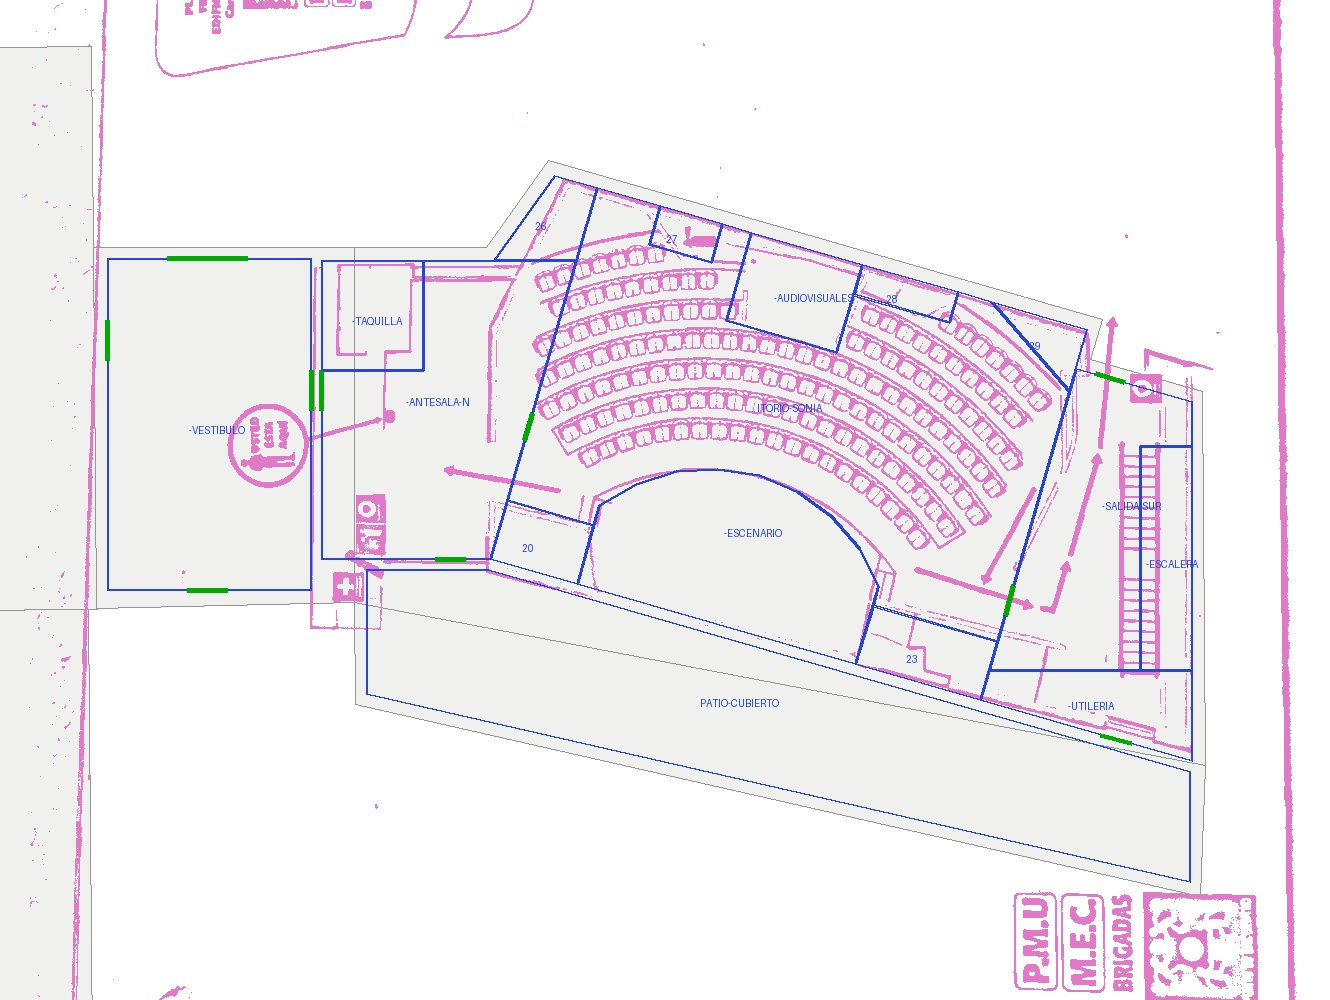
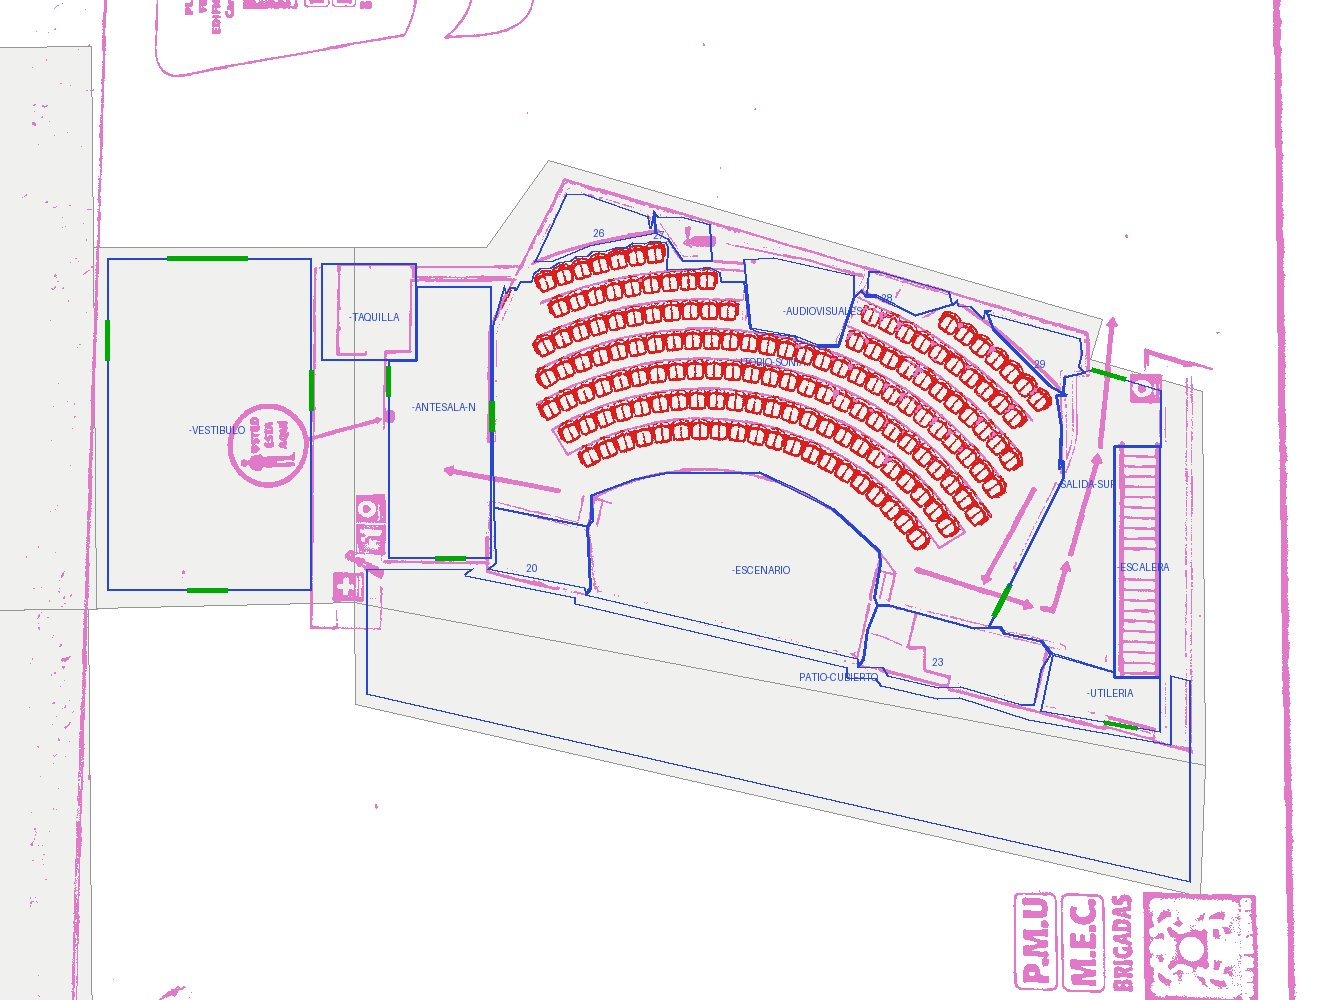
docs: update the captures and the backend state for the auditorium from its plan
Refs #218

diff --git a/docs/state/backend.md b/docs/state/backend.md
@@ -1,7 +1,7 @@
 # Backend State
 
-> Owner: Backend. As of 2026-11-05, `develop` at `6ac0ea0`. Backend | Local: EC P1's auditorium redrawn as a turned
-> block, with the floor's outline and the Carrera 9A passage (#218).
+> Owner: Backend. As of 2026-11-05, `develop` at `6ac0ea0`. Backend | Local: EC P1's auditorium redrawn from its own
+> plan's walls, with the floor's outline and the Carrera 9A passage (#218).
 
 ---
 
@@ -66,8 +66,10 @@
 
 - **EC P1's auditorium, outline and Carrera 9A exit (#218, `feature/ec-p1-turned-auditorium`):**
   - The auditorium's plan laid over the floor's fits by scale, a quarter turn and a shift (corners within 0.8%);
-    on the surveyed corners the hall is a block along the Carrera 9 Bis. `register.py` gained `"turned"` (rooms
-    drawn in a block's own frame, u along its front, v across) and `"outline"`; `ec-surveyed.json` uses both.
+    the wing is Brian's outline over that plan, laid by the survey similarity, with every seat the plan prints
+    inside the hall (`scripts/plan-tracing/wip/aud_walls.py`; a first version as a square block was refused).
+    `register.py` gained `"turned"` (a block's own frame), `"drawn"` (rooms given in floor units) and
+    `"outline"`; `ec-surveyed.json` uses `"drawn"` and `"outline"`.
   - The floor's `outline` is the surveyed parts on P1, the open patio and the passage between the tower and the
     Casa de Francisco de Paula Vélez's lot line, out to the sidewalk: no contract change was needed for the
     casa's wall. The gate onto the Carrera 9A is 2.5 m, as the survey measured it (a-10).
@@ -76,7 +78,7 @@
   - `render-map-base.py` now draws a floor's outline, corridors and doors. Review images:
     `~/Documents/KApp/mapa-pisos/ec-p1-218/` on Brian's Mac.
   - After merge: Kotlin re-runs `capture-demo-data.sh` so the demo serves the new example.
-  - Next: P2's gallery on the turned hall (#220).
+  - Next: P2's gallery over the hall as now drawn (#220).
 - **`verticalCode` (#213):** issue open, not started. Contract, service, seed data and portal, one PR each.
 - **EC P1 on the dev server, verified 2026-11-05:** the API returns exactly what V016 seeds (46 spaces, 42 drawn,
   4 corridors, same doors), and the portal draws it whole. To check the dev server through the portal or the API,
@@ -105,7 +107,7 @@
 | 0–2 | #54, #55 | Done |
 | 3 · Microsoft sign-in, refresh tokens, roles and permissions | #56 | Done and closed (#141, #142, #169, #172, #179, #148, #156) |
 | 4 · End-to-end journeys per profile | #57 | Not started |
-| 5 · EC floors faithful to reality | #58 | P1 done (#183, #193; auditorium turned in #218). P2 to P8 wait for Brian's sketches |
+| 5 · EC floors faithful to reality | #58 | P1 done (#183, #193; auditorium from its plan in #218). P2 to P8 wait for Brian's sketches |
 | 6 · Kubernetes with kind, and production | #59 | Branch stale. Production waits on IT's server decision |
 | 7 · notification-service | #60 | Not started. Needs Firebase, and APNs needs the Apple account |
 | 8 · Points, voice, damage reports, lost and found | #61 | Not started |

diff --git a/docs/map/capturas/ec-p1-218/README.md b/docs/map/capturas/ec-p1-218/README.md
@@ -1,4 +1,4 @@
-# EC P1: the auditorium turned, the outline and the Carrera 9A exit (#218)
+# EC P1: the auditorium from its plan, the outline and the Carrera 9A exit (#218)
 
 Review captures for #218. A copy is on Brian's Mac in `~/Documents/KApp/mapa-pisos/ec-p1-218/`.
 
@@ -6,7 +6,7 @@ Review captures for #218. A copy is on Brian's Mac in `~/Documents/KApp/mapa-pis
 |---|---|
 | `1-superposicion-planos-AU-sobre-P1.jpg` | The auditorium's evacuation plan (magenta lines) laid over the floor's, fitted by scale, a quarter turn and a shift on the wing's five outer corners |
 | `2-antes-V016-sobre-plano-AU.jpg` | V016's auditorium (red) over the auditorium's plan, in the floor's units |
-| `3-despues-sobre-plano-AU.jpg` | The turned block (blue) over the same plan; doors in green |
+| `3-despues-sobre-plano-AU.jpg` | The wing as now drawn (blue) over the same plan; doors in green, and the plan's seats in red, every one inside the hall |
 | `5-render-despues.jpg` | The whole floor as `scripts/render-map-base.py` draws it now: outline, corridors and doors as the apps draw them |
 | `6-ala-auditorio-antes.jpg`, `7-ala-auditorio-despues.jpg` | The auditorium's wing, before and after |
 | `8-salida-9A-antes.jpg`, `9-salida-9A-despues.jpg` | The passage to the Carrera 9A, before and after |
